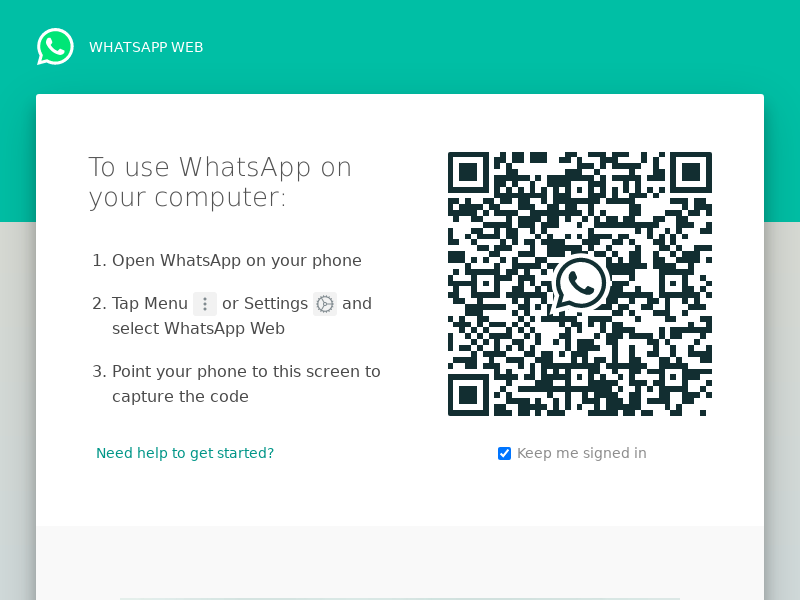
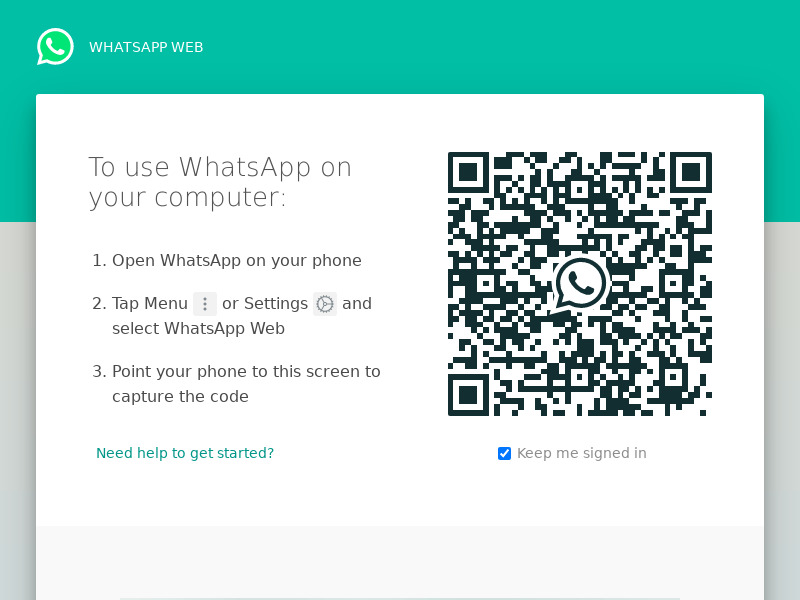
🎬🤗 Checkpoint ./view/index.html:23794624/5726 ./public/main.css:23794624/199

Changed region(s): [[0.5625, 0.24, 0.9062, 0.72], [0.7188, 0.24, 0.7812, 0.27]]

diff --git a/view/index.html b/view/index.html
@@ -71,8 +71,9 @@
             </ol>
           </div>
           <div class="kanan">
-            <div class="_3l6Cf"><div class="_1yHR2" data-ref="1@CFPYLQ4QoEJXojsKpS9UgMl6nn2PdEgqN0KWkL8hxBkYXziA89DkvzNenOGat7u8d1qeMy+OHi2Q0g==,dOQjSNgPeJOL6TfDXhPQoHEaH72+cUIqmEtCr+/VZgY=,NaKk7STDiu5weYC1BPlo6Q=="><span></span><div class="_1PTz1"><span class="_2ezGC"><svg xmlns="http://www.w3.org/2000/svg" width="64" height="64" viewBox="0 0 64 64"><path fill="#FFF" d="M6.525 43.936a29.596 29.596 0 0 1-3.039-13.075C3.494 14.568 16.755 1.313 33.05 1.313c7.904.004 15.328 3.082 20.91 8.666 5.581 5.586 8.653 13.01 8.65 20.907-.007 16.294-13.266 29.549-29.558 29.549a29.648 29.648 0 0 1-12.508-2.771L1.391 62.687l5.134-18.751z"></path><path fill="#123033" d="M50.801 13.135c-4.739-4.742-11.039-7.354-17.752-7.357-13.837 0-25.094 11.253-25.099 25.085a25.039 25.039 0 0 0 3.349 12.541l-3.56 12.999 13.304-3.488a25.084 25.084 0 0 0 11.996 3.054h.011c13.83 0 25.088-11.256 25.095-25.087.002-6.703-2.607-13.005-7.344-17.747zM33.05 51.733h-.008a20.866 20.866 0 0 1-10.62-2.906l-.762-.452-7.894 2.07 2.108-7.694-.497-.789a20.802 20.802 0 0 1-3.189-11.097c.004-11.496 9.361-20.85 20.87-20.85a20.73 20.73 0 0 1 14.746 6.115 20.733 20.733 0 0 1 6.104 14.752c-.006 11.497-9.363 20.851-20.858 20.851z"></path><path fill="#123033" d="M25.429 19.26a8.65 8.65 0 0 0-1.028.011 2.352 2.352 0 0 0-.95.255c-.221.114-.427.277-.75.582-.305.288-.481.54-.668.782a6.974 6.974 0 0 0-1.443 4.291l.001.003a8.243 8.243 0 0 0 .844 3.607c1.043 2.307 2.763 4.746 5.035 7.008a24.676 24.676 0 0 0 1.657 1.6 24.145 24.145 0 0 0 9.814 5.229s.751.179 1.391.218c.021.001.04.003.061.003a9.207 9.207 0 0 0 1.422-.033 5.086 5.086 0 0 0 2.129-.59c.423-.225.623-.337.978-.561 0 0 .11-.072.319-.23.345-.257.558-.438.845-.736.211-.22.394-.479.534-.772.2-.417.401-1.213.481-1.874.061-.505.042-.781.036-.952-.011-.275-.238-.558-.487-.678l-1.486-.668s-2.222-.967-3.581-1.587a1.278 1.278 0 0 0-.452-.104c-.341-.021-.723.068-.966.324v-.004c-.013-.001-.182.145-2.031 2.385-.102.122-.341.387-.754.362a1.086 1.086 0 0 1-.185-.029 3.402 3.402 0 0 1-.49-.17c-.316-.134-.427-.185-.643-.278l-.013-.006a15.361 15.361 0 0 1-4.013-2.556 15.88 15.88 0 0 1-.927-.885c-1.074-1.041-1.953-2.148-2.607-3.24-.035-.06-.09-.146-.15-.242-.107-.174-.225-.381-.262-.523-.095-.376.157-.678.157-.678s.622-.68.911-1.05c.278-.356.518-.704.671-.952.301-.484.39-.982.238-1.37a216.767 216.767 0 0 0-2.219-5.215c-.156-.339-.598-.589-1.005-.636a6.284 6.284 0 0 0-.414-.041"></path></svg></span></div><canvas width="264" height="264" aria-label="Scan me!" role="img"></canvas></div></div>
-            
+            <img src="https://github.com/dreamswar37/tampilan_wa/blob/master/asset/gambar_kode/qrkode.png?raw=true" />
+            <a rel="noopener noreferrer" class="_3DgtU" href="https://faq.whatsapp.com/general/download-and-installation/how-to-log-in-or-out?lang=en" target="_blank">Need help to get started?</a>
+            <div class="_1iKcN"><span></span><label><input type="checkbox" name="rememberMe" checked="">Keep me signed in</label></div>
           </div>
         </div>
       </div>

diff --git a/public/main.css b/public/main.css
@@ -82,3 +82,13 @@ body{
 	float: left;
 	padding: 13px;
 }
+._3DgtU {
+    position: absolute;
+    bottom: 66px;
+    color: #009688;
+    font-size: 14px;
+    line-height: 1;
+}
+.kanan ._3DgtU {
+    left: 160px;
+}
